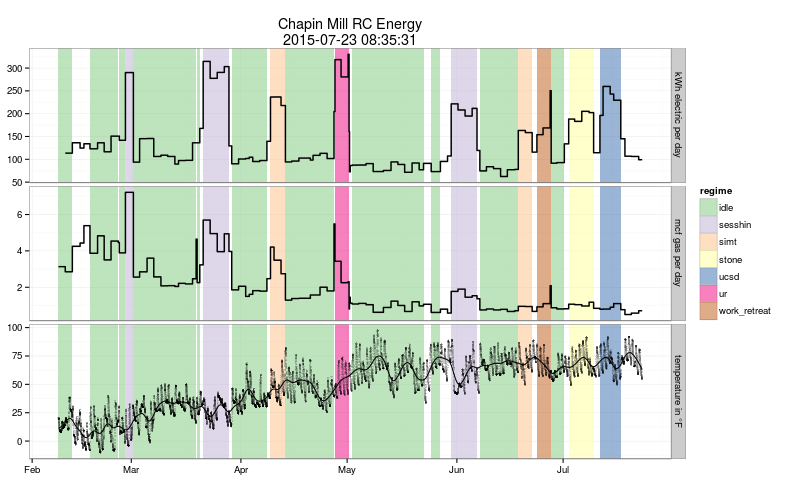
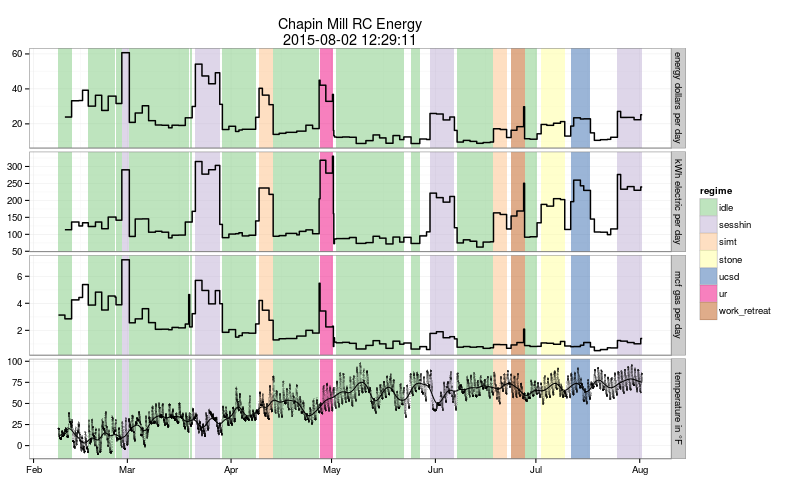
auto commit

diff --git a/index.html b/index.html
@@ -4,7 +4,7 @@
 <html xmlns="http://www.w3.org/1999/xhtml" lang="en" xml:lang="en">
 <head>
 <title></title>
-<!-- 2015-07-23 Thu 08:35 -->
+<!-- 2015-08-02 Sun 12:29 -->
 <meta  http-equiv="Content-Type" content="text/html;charset=utf-8" />
 <meta  name="generator" content="Org-mode" />
 <style type="text/css">
@@ -215,9 +215,13 @@ days.
 </p>
 
 <p>
-Gas values are in thousands of cubic feet per day and electricity is
-in killowatt hours per day. (So I guess that makes the units for
-electricity 1000/24 &asymp; 42 watts.)
+Gas values are in thousands of cubic feet per day and electricity
+values are in killowatt hours per day. (So I guess that makes the
+units for electricity 1000/24 &asymp; 42 watts.) Based on historical
+billing data we can estimate the price of gas and electricity and so
+can convert the two types to dollars and add them up. Thus one of
+the panels in the plot describes the rate of overall cost of energy
+consumption.
 </p>
 
 <p>
@@ -527,6 +531,21 @@ is the average degrees below 65 for the period, or in other words,
 The &alpha; parameter estimates and their standard errors look as
 follows:
 </p>
+<p>
+<sup><a id="fnr.1" name="fnr.1" class="footref" href="#fn.1">1</a></sup> 0.07
+1 
+8
+</p>
+
+<p>
+1 
+22
+</p>
+
+<p>
+1 
+17
+</p>
 <table border="2" cellpadding="3">
 
 
@@ -671,7 +690,7 @@ where \(y\) is electricity consumption in kWh per day and the
 
 <p>
 <div id="postamble" class="status">
-<p class="date">Created: 2015-07-23 Thu 08:35</p>
+<p class="date">Created: 2015-08-02 Sun 12:29</p>
 <p class="creator"><a href="http://www.gnu.org/software/emacs/">Emacs</a> 24.5.50.1 (<a href="http://orgmode.org">Org</a> mode 8.2.10)</p>
 <p class="validation"><a href="http://validator.w3.org/check?uri=referer">Validate</a></p>
 </div>
